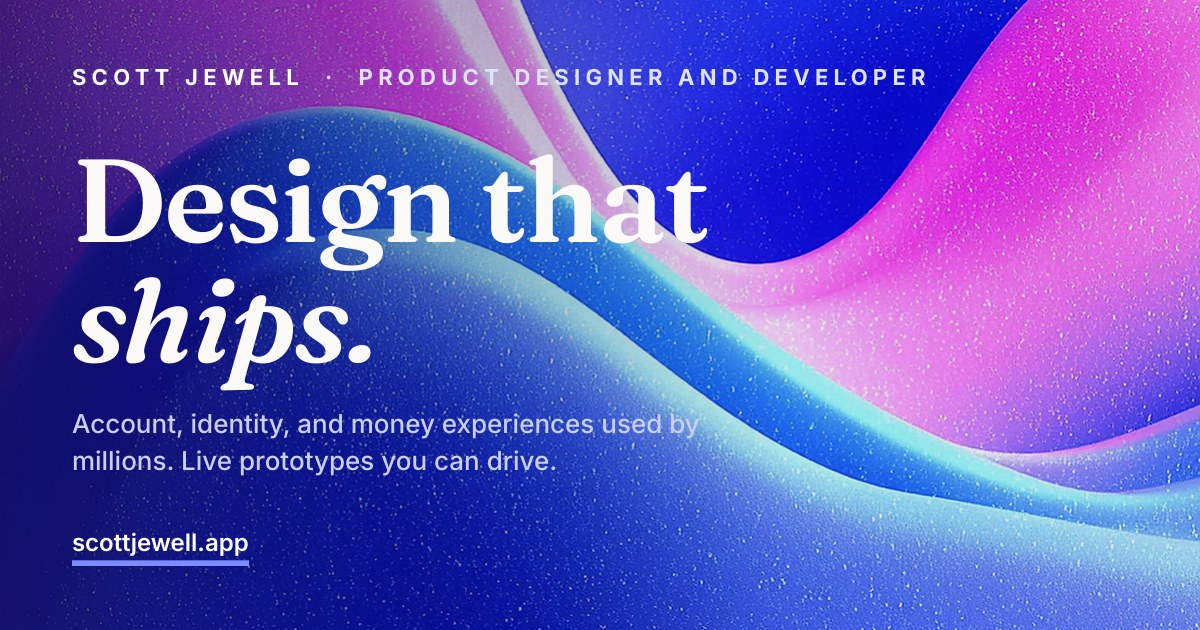
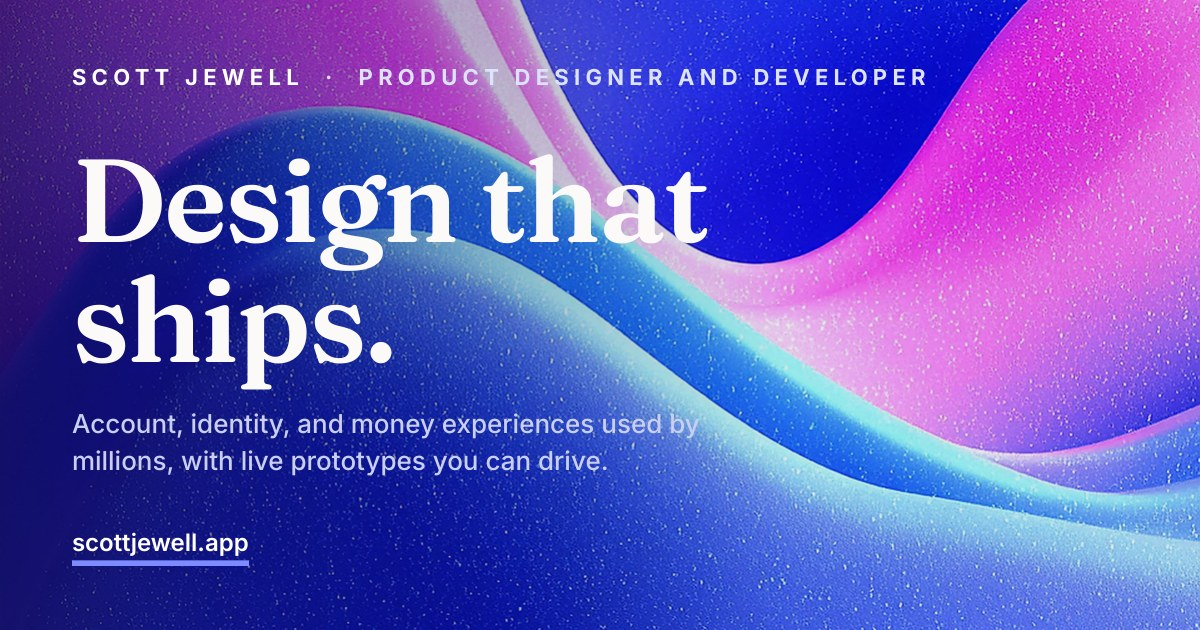
Voice pass, developer story, share card final

Changed region(s): [[0.0617, 0.4222, 0.3392, 0.6333], [0.1542, 0.6937, 0.5242, 0.754]]

diff --git a/Scott-Jewell-Portfolio.html b/Scott-Jewell-Portfolio.html
@@ -7,15 +7,15 @@
 <meta name="description" content="Scott Jewell, product designer and developer. Account, identity, and security experiences used by millions, designed and built, across healthcare, fintech, and commerce.">
   <meta property="og:type" content="website">
   <meta property="og:site_name" content="Scott Jewell">
-  <meta property="og:title" content="Scott Jewell. Design that ships.">
-  <meta property="og:description" content="Product designer and developer. Account, identity, and money experiences used by millions, with live prototypes you can drive.">
+  <meta property="og:title" content="Scott Jewell, product designer and developer">
+  <meta property="og:description" content="Design that ships, account, identity, and money experiences used by millions, with live prototypes you can drive.">
   <meta property="og:url" content="https://scottjewell.app/">
   <meta property="og:image" content="https://scottjewell.app/assets/og-card.jpg">
   <meta property="og:image:width" content="1200">
   <meta property="og:image:height" content="630">
   <meta name="twitter:card" content="summary_large_image">
-  <meta name="twitter:title" content="Scott Jewell. Design that ships.">
-  <meta name="twitter:description" content="Product designer and developer. Live prototypes you can drive.">
+  <meta name="twitter:title" content="Scott Jewell, product designer and developer">
+  <meta name="twitter:description" content="A portfolio of live prototypes you can drive, from a designer who builds.">
   <meta name="twitter:image" content="https://scottjewell.app/assets/og-card.jpg">
 <link rel="preconnect" href="https://fonts.googleapis.com">
 <link rel="preconnect" href="https://fonts.gstatic.com" crossorigin>
@@ -1075,6 +1075,7 @@
       <div class="about-statement">I'm a designer with over a decade in visual design. I thrive on <span style="color:var(--accent);">simplifying complex apps</span>, and I care about the customer journey and the details that make products feel effortless.<span class="mut"> Creative, collaborative, and dedicated to outstanding user experiences.</span></div>
       <div class="about-body">
         <p>From print and visual design into product, I've spent fifteen years learning what makes interfaces feel inevitable: <b>research, clear hierarchy, accessible patterns,</b> and a relentless focus on the person on the other side of the screen.</p>
+        <p>The developer side of my practice grew at CVS, where the account work meant sitting with engineers, having real conversations about their craft, and learning to speak it. JavaScript coursework and building BagEquity's front end turned that curiosity into a working skill.</p>
         <p>Today I design and build for healthcare and fintech, lead 0&nbsp;→&nbsp;1 product work, and use AI to ship faster without lowering the bar on trust or craft.</p>
         <div class="skills">
           <span class="skill">UX Design</span><span class="skill">UI Design</span><span class="skill">Design Systems</span>
@@ -1630,7 +1631,7 @@
   var SEEDS=[
     {sel:'.card[href="case-cvs.html"]',rx:.94,ry:.12,who:'Hiring manager',ago:'3w',txt:'Walked through the CVS work twice. Designers who can talk about trust in regulated products are rare.'},
     {sel:'.hero-meta',rx:.97,ry:.2,who:'Anonymous visitor',ago:'2w',txt:'Came for the resume, stayed for the live prototypes. Everything actually works, which says a lot.'},
-    {sel:'.card[href="cobank-prototype.html"]',rx:.94,ry:.14,who:'Hiring manager',ago:'5d',txt:'The audit format is the smartest portfolio move I have seen this year. This is how you apply for a job.'}
+    {sel:'.card[href="cobank-prototype.html"]',rx:.94,ry:.14,who:'Hiring manager',ago:'5d',txt:'Designing and building the fix instead of a pitch deck is the smartest portfolio move I have seen this year. This is how you apply for a job.'}
   ];
   function mine(){try{return JSON.parse(localStorage.getItem(KEY))||[];}catch(e){return [];}}
   function saveMine(list){try{localStorage.setItem(KEY,JSON.stringify(list));}catch(e){}}

diff --git a/index.html b/index.html
@@ -7,15 +7,15 @@
 <meta name="description" content="Scott Jewell, product designer and developer. Account, identity, and security experiences used by millions, designed and built, across healthcare, fintech, and commerce.">
   <meta property="og:type" content="website">
   <meta property="og:site_name" content="Scott Jewell">
-  <meta property="og:title" content="Scott Jewell. Design that ships.">
-  <meta property="og:description" content="Product designer and developer. Account, identity, and money experiences used by millions, with live prototypes you can drive.">
+  <meta property="og:title" content="Scott Jewell, product designer and developer">
+  <meta property="og:description" content="Design that ships, account, identity, and money experiences used by millions, with live prototypes you can drive.">
   <meta property="og:url" content="https://scottjewell.app/">
   <meta property="og:image" content="https://scottjewell.app/assets/og-card.jpg">
   <meta property="og:image:width" content="1200">
   <meta property="og:image:height" content="630">
   <meta name="twitter:card" content="summary_large_image">
-  <meta name="twitter:title" content="Scott Jewell. Design that ships.">
-  <meta name="twitter:description" content="Product designer and developer. Live prototypes you can drive.">
+  <meta name="twitter:title" content="Scott Jewell, product designer and developer">
+  <meta name="twitter:description" content="A portfolio of live prototypes you can drive, from a designer who builds.">
   <meta name="twitter:image" content="https://scottjewell.app/assets/og-card.jpg">
 <link rel="preconnect" href="https://fonts.googleapis.com">
 <link rel="preconnect" href="https://fonts.gstatic.com" crossorigin>
@@ -1317,6 +1317,7 @@
       <div class="about-statement">I'm a designer with over a decade in visual design. I thrive on <span style="color:var(--accent);">simplifying complex apps</span>, and I care about the customer journey and the details that make products feel effortless.<span class="mut"> Creative, collaborative, and dedicated to outstanding user experiences.</span></div>
       <div class="about-body">
         <p>From print and visual design into product, I've spent fifteen years learning what makes interfaces feel inevitable: <b>research, clear hierarchy, accessible patterns,</b> and a relentless focus on the person on the other side of the screen.</p>
+        <p>The developer side of my practice grew at CVS, where the account work meant sitting with engineers, having real conversations about their craft, and learning to speak it. JavaScript coursework and building BagEquity's front end turned that curiosity into a working skill.</p>
         <p>Today I design and build for healthcare and fintech, lead 0&nbsp;→&nbsp;1 product work, and use AI to ship faster without lowering the bar on trust or craft.</p>
         <div class="skills">
           <span class="skill">UX Design</span><span class="skill">UI Design</span><span class="skill">Design Systems</span>
@@ -1873,7 +1874,7 @@
   var SEEDS=[
     {sel:'.card[href="case-cvs.html"]',rx:.94,ry:.12,who:'Hiring manager',ago:'3w',txt:'Walked through the CVS work twice. Designers who can talk about trust in regulated products are rare.'},
     {sel:'.hero-meta',rx:.97,ry:.2,who:'Anonymous visitor',ago:'2w',txt:'Came for the resume, stayed for the live prototypes. Everything actually works, which says a lot.'},
-    {sel:'.card[href="ibotta-concept.html"]',rx:.94,ry:.14,who:'Hiring manager',ago:'5d',txt:'The audit format is the smartest portfolio move I have seen this year. This is how you apply for a job.'}
+    {sel:'.card[href="ibotta-concept.html"]',rx:.94,ry:.14,who:'Hiring manager',ago:'5d',txt:'Designing and building the fix instead of a pitch deck is the smartest portfolio move I have seen this year. This is how you apply for a job.'}
   ];
   function mine(){try{return JSON.parse(localStorage.getItem(KEY))||[];}catch(e){return [];}}
   function saveMine(list){try{localStorage.setItem(KEY,JSON.stringify(list));}catch(e){}}

diff --git a/case-cvs.html b/case-cvs.html
@@ -258,6 +258,7 @@
     <div class="kick">The Solution</div>
     <h2 class="sec">Faster in, without ever feeling less safe</h2>
     <p class="body">The redesign resolved the security versus simplicity tension with a few deliberate moves. I helped move the account experience off a third party framed web view and onto a <b>native One Account</b> foundation, which gave people a faster, consistent sign in on iOS and Android and cut our reliance on outside vendors. I introduced <b>phone number as username</b> backed by <b>risk based authentication</b>, so returning users get in with far less friction while the app quietly raises the bar only when a sign in looks risky.</p>
+    <p class="body">That work lived in engineering's world as much as design's. I sat in on the technical conversations, learned the constraints behind every API and release train, and built the habit of speaking with developers about their craft, which is where my own development practice took root.</p>
     <p class="body">Trust also meant designing for everyone. I centralized <b>consent and communication preferences</b> into one clear surface and led the accessibility work that resolved the issues flagged in an App Store review, aligning the flows to <b>WCAG</b> and validating them in testing. Biometric setup, sign in, and recovery were streamlined into fewer, clearer steps across both platforms.</p>
     <div class="shot reveal-scale">
       <img class="px" loading="lazy" src="assets/case/xMFetbawZgpMqSBT.png" alt="Redesigned CVS profile and security screens" style="width:100%;display:block;">
